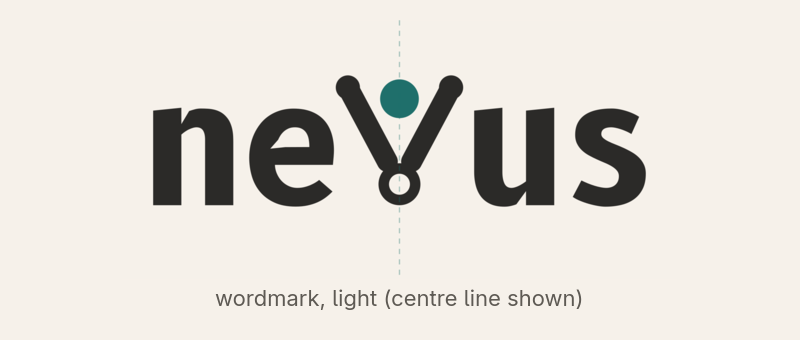
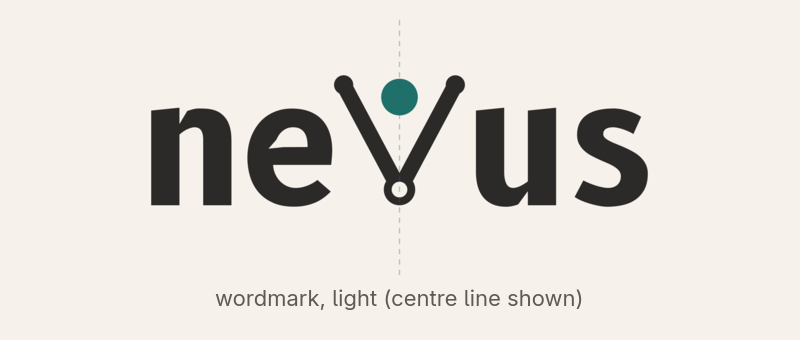
docs: restore the approved mark geometry, adding only the pivot hole
The identity's mark returns to the round-5 drawing (stroke 18, tips r11, hinge r18); the only change is the hole of half the hinge's diameter in the inverse colour, with the legs ending under the disc so the hole shows the background. Wordmark, icons, store card and boards regenerated from it; a pixel comparison against the round-5 file shows no difference outside the hole.

diff --git a/docs/design/brand/identity/sources/mark.py b/docs/design/brand/identity/sources/mark.py
@@ -1,15 +1,25 @@
 #!/usr/bin/env python3
-"""neVus symbol, version 3 (2026-09-23), weight matched to the wordmark letters. A divider (measuring compass) whose points hold the mark between them.
-The hinge at the vertex is a disc of radius 20 with a hole of radius 10 (exactly half the diameter) in the inverse
-colour of the strokes; the legs stop at the hinge so nothing shows through the hole. 256 grid, stroke 18, round caps."""
+"""The neVus mark: a divider (measuring compass) whose points hold the mark between its points.
+
+Geometry as approved in round 5, unchanged: 256 grid, legs of stroke 18 from the tips (64,70) and (192,70)
+towards the hinge at (128,190), tip balls of radius 11, hinge disc of radius 18, the accent mark of radius 21 at
+(128,84). The only addition (2026-09-23): a hole of exactly half the hinge's diameter (radius 9) in the
+inverse colour of the strokes. So that the hole shows the background and not the legs, each leg ends with a
+square cut 12 units short of the hinge centre: the cut lies entirely under the disc (its corners are 15 units
+from the centre, the disc reaches 18) and clear of the hole (9), so the outer silhouette is identical to the
+original drawing. The tip end of each leg is covered by its ball. Light, dark and bare variants are written."""
 import math, pathlib, sys
+
 OUT = pathlib.Path(sys.argv[1])
 LIGHT = dict(paper="#F6F1EA", ink="#2B2A28", accent="#1F6F6B")
 DARK = dict(paper="#17161A", ink="#EDE8E0", accent="#5FB3AE")
-VX, VY, R = 128.0, 190.0, 26.0           # hinge centre and outer radius
-TIPS = ((64.0, 70.0), (192.0, 70.0))     # points of the divider
-DOT = (128.0, 84.0, 24.0)                # the mark between the points
-STOP = R + 6.0                            # legs end this far from the hinge centre (round caps reach R - 5)
+VX, VY = 128.0, 190.0        # hinge centre
+HINGE_R, HOLE_R = 18.0, 9.0  # hole = half the diameter
+TIPS = ((64.0, 70.0), (192.0, 70.0))
+TIP_R, STROKE = 11.0, 18.0
+DOT = (128.0, 84.0, 21.0)
+STOP = 12.0                  # legs end this far from the hinge centre, under the disc
+
 
 def leg(tip):
     dx, dy = VX - tip[0], VY - tip[1]
@@ -17,22 +27,26 @@ def leg(tip):
     ex, ey = VX - dx / n * STOP, VY - dy / n * STOP
     return f'<line x1="{tip[0]:g}" y1="{tip[1]:g}" x2="{ex:.2f}" y2="{ey:.2f}"/>'
 
-def body(c, hole_colour):
-    return (f'<g stroke="{c["ink"]}" stroke-width="26" stroke-linecap="round">{leg(TIPS[0])}{leg(TIPS[1])}</g>'
-            f'<circle cx="{TIPS[0][0]:g}" cy="{TIPS[0][1]:g}" r="15" fill="{c["ink"]}"/><circle cx="{TIPS[1][0]:g}" cy="{TIPS[1][1]:g}" r="15" fill="{c["ink"]}"/>'
-            f'<circle cx="{VX:g}" cy="{VY:g}" r="{R:g}" fill="{c["ink"]}"/>'
-            f'<circle cx="{VX:g}" cy="{VY:g}" r="{R/2:g}" fill="{hole_colour}"/>'
+
+def body(c):
+    return (f'<g stroke="{c["ink"]}" stroke-width="{STROKE:g}" stroke-linecap="butt">{leg(TIPS[0])}{leg(TIPS[1])}</g>'
+            f'<circle cx="{TIPS[0][0]:g}" cy="{TIPS[0][1]:g}" r="{TIP_R:g}" fill="{c["ink"]}"/>'
+            f'<circle cx="{TIPS[1][0]:g}" cy="{TIPS[1][1]:g}" r="{TIP_R:g}" fill="{c["ink"]}"/>'
+            f'<circle cx="{VX:g}" cy="{VY:g}" r="{HINGE_R:g}" fill="{c["ink"]}"/>'
+            f'<circle cx="{VX:g}" cy="{VY:g}" r="{HOLE_R:g}" fill="{c["paper"]}"/>'
             f'<circle cx="{DOT[0]:g}" cy="{DOT[1]:g}" r="{DOT[2]:g}" fill="{c["accent"]}"/>')
+
 
 def svg(label, c, container):
     rect = f'<rect width="256" height="256" rx="56" fill="{c["paper"]}"/>' if container else ""
     return (f'<svg xmlns="http://www.w3.org/2000/svg" viewBox="0 0 256 256" width="256" height="256" role="img" aria-label="{label}">'
-            f'{rect}{body(c, c["paper"])}</svg>\n')
+            f'{rect}{body(c)}</svg>\n')
+
 
 label = "neVus: a divider holding the mark between its points; the hinge carries a hole of half its diameter"
 (OUT / "mark.svg").write_text(svg(label, LIGHT, True))
 (OUT / "mark-dark.svg").write_text(svg(label, DARK, True))
 (OUT / "mark-bare.svg").write_text(svg(label, LIGHT, False))
 (OUT / "mark-bare-dark.svg").write_text(svg(label, DARK, False))
-# letter box of the divider when it stands in for the V: ink extents x 53..203, y 59..210
-print("letter box: 49,55,158,161")
+# letter box when the mark stands in for the V: ink extents x 53..203, y 59..208
+print("letter box: 53,59,150,149")

diff --git a/docs/design/brand/identity/README.md b/docs/design/brand/identity/README.md
@@ -4,9 +4,9 @@ Settled on 2026-09-23 after five rounds (history in [`../README.md`](../README.m
 
 ## The mark
 
-A divider, the measuring compass, holding the mark between its points. The legs are the V of the name, the hinge at the vertex is a disc with a hole of exactly half its diameter in the inverse colour, and the mark between the points is the only accent. Symmetric to the pixel, one stroke weight, round caps.
+A divider, the measuring compass, holding the mark between its points. The legs are the V of the name, the hinge at the vertex is a disc with a hole of exactly half its diameter in the inverse colour, and the mark between the points is the only accent. The drawing is the one approved in round 5 (stroke 18 on the 256 grid, tips of radius 11, hinge of radius 18), with the hole (radius 9) as the only addition; a pixel comparison against the round-5 file shows no other difference. Symmetric to the pixel.
 
-![Mark, light and dark](boards/board-mark.png)
+![Round 5, final and dark](boards/board-mark.png)
 
 At 16, 24, 32 and 48 px (real size and enlarged):
 
@@ -16,7 +16,7 @@ Files: [`svg/mark.svg`](svg/mark.svg) (light container), [`svg/mark-dark.svg`](s
 
 ## The wordmark
 
-`neVus` set in **B612 Bold**, with the mark standing in for the V: the letter box of the mark (from the tips to the bottom of the hinge) is mapped to the cap height, the mark sits 0.03 em into its neighbours like a kerned V, and the whole word is optically centred so the mark's axis is the exact centre of the ink box (189.7 px of ink on the left against 182.1 px on the right before centring; equal after).
+`neVus` set in **B612 Bold**, with the mark standing in for the V, unchanged: the letter box of the mark (from the tips to the bottom of the hinge) is mapped to the cap height, the mark sits 0.03 em into its neighbours like a kerned V, and the whole word is optically centred so the mark's axis is the exact centre of the ink box (191.0 px of ink on the left against 183.4 px on the right before centring; equal after).
 
 ![Wordmark, light](boards/board-wordmark.png)
 
@@ -51,7 +51,7 @@ Source: [`svg/store-card.svg`](svg/store-card.svg).
 
 ## Usage rules
 
-- Clear space around the mark and the wordmark: one hinge-disc diameter on every side, never less.
+- Clear space around the mark and the wordmark: two hinge-disc diameters on every side, never less.
 - Minimum sizes: mark 16 px; wordmark 120 px wide (below that, use the mark alone).
 - The accent colour appears only on the mark between the points and on interface actions; never recolour the letters.
 - Light artwork on the light paper, dark artwork on the dark paper; do not place the light mark on photographs or coloured surfaces (use the container version).
